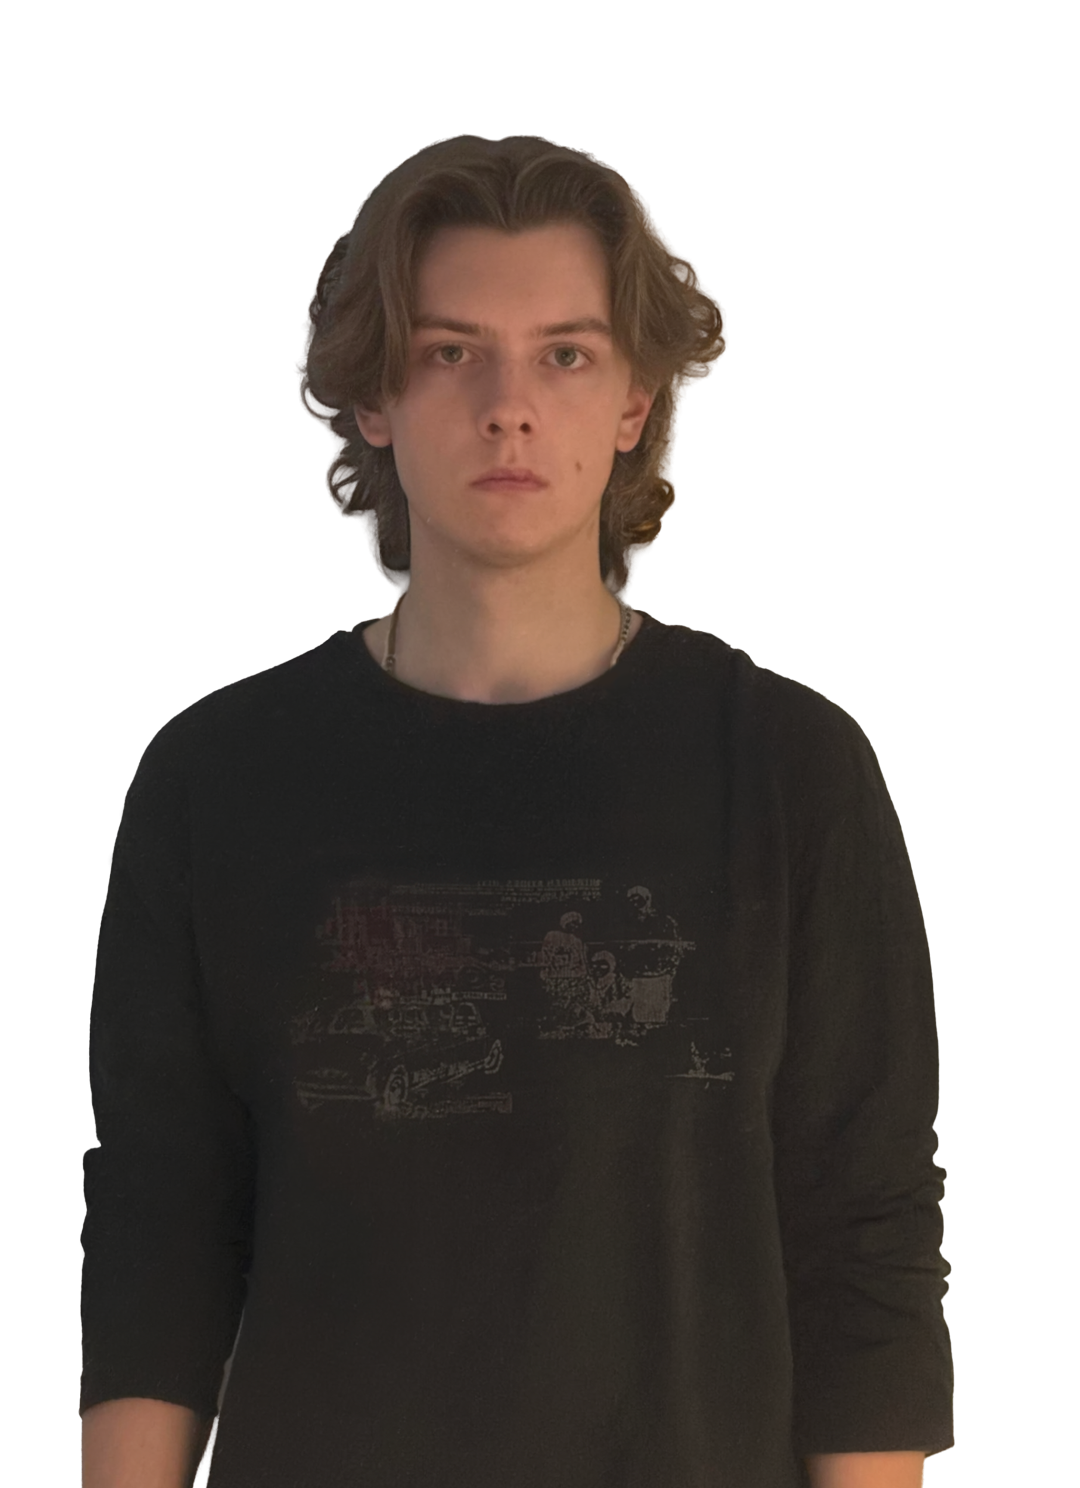
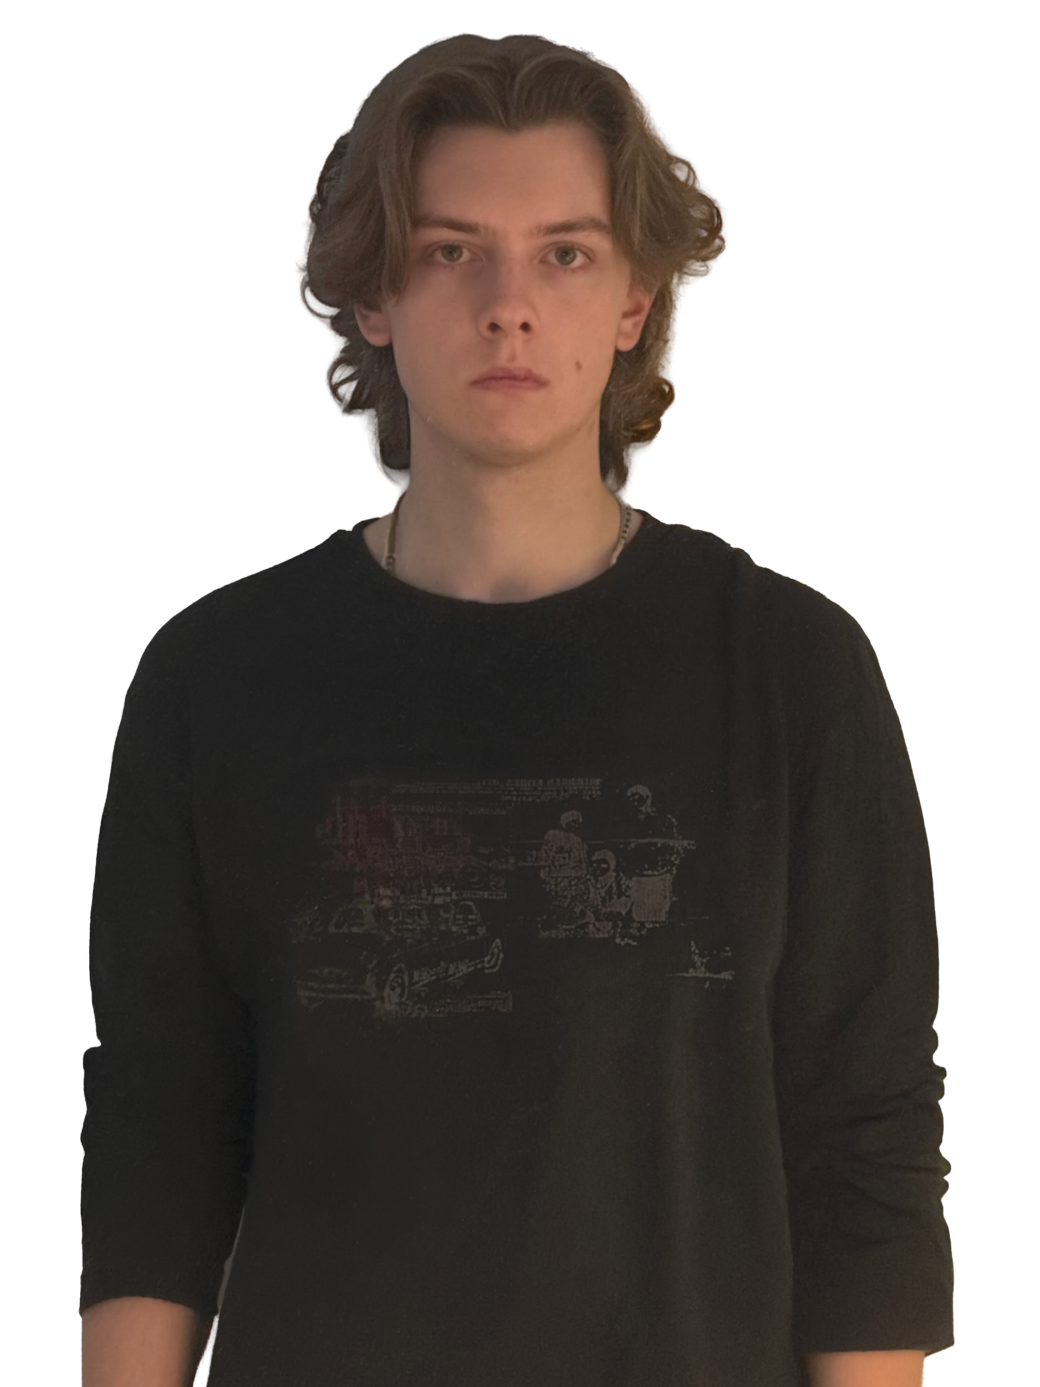
mobile support finalized

diff --git a/css/style.css b/css/style.css
@@ -908,7 +908,39 @@ html::-webkit-scrollbar-thumb:active{
   -webkit-mask:radial-gradient(circle at 100% 0,transparent calc(var(--tab-h) - .5px),#000 var(--tab-h));
           mask:radial-gradient(circle at 100% 0,transparent calc(var(--tab-h) - .5px),#000 var(--tab-h));
 }
-@media (max-width:47.5rem) and (max-height:55.875rem){
+@media (max-width:47.5rem){
+  .grid{
+    --slide:1.5rem;
+    row-gap:calc(var(--gap) + var(--slide));
+  }
+  .grid>li .card{translate:none !important}
+
+  .grid>li::after{
+    font-size:clamp(1.05rem,.85rem + 1vw,1.5rem);
+    translate:0 0;
+    opacity:1;
+    place-items:end center;
+    transition:none;
+    padding-bottom:0.3rem;
+  }
+  .grid>li:nth-child(n):not(:last-child) .card{
+    translate:0 calc(var(--slide) * -1);
+  }
+
+  .menu a{font-size:clamp(1.05rem,.75rem + 1.6vw,1.7rem)}
+  html.scrolled:not(.at-bottom) .logo,
+  html.scrolled:not(.at-bottom) .actions{scale:1}
+  .bolts{
+    --bs:2.8;                        /* scale factor */
+    transform-origin:100% 0;         /* grow from the top-right corner so the right bolt stays on screen */
+    scale:var(--bs);
+  }
+  .bolts path:nth-child(1){display:none}   /* hide the left bolt, keep the right one */
+  .bolts path{stroke-width:3.5}              /* your thickness knob: see the note below */
+  body{overflow-x:clip}
+
+  .contact-list li:has(.ico-location){display:none}
+  .disclaimer{margin-top:1rem}
   .grid{
     --cols:1;
     margin-bottom:0;                 /* the negative margin only existed to close the stagger gap */
@@ -923,6 +955,14 @@ html::-webkit-scrollbar-thumb:active{
     grid-column:auto;                /* card 7 was pinned to column 2 */
   }
 
+  .links--r .contact-list{
+    display:flex;
+    flex-direction:row;
+    flex-wrap:wrap;                  /* drops to a second line only if it runs out of room */
+    justify-content:center;
+    gap:1rem clamp(1.25rem,6vw,2.5rem);   /* row gap, column gap */
+  }
+
   /* hover (mouse only): the old rules were written for a 3-column grid */
   @media (hover:hover){
     .grid>li:nth-child(n):has(~ li:nth-child(n):hover) .card{translate:none}
@@ -932,4 +972,25 @@ html::-webkit-scrollbar-thumb:active{
       translate:0 calc(var(--slide) * -1);
     }
   }
+}
+/* tab: flat top, sharp-ish S-curve shoulders (below 64rem, where the tab is visible) */
+.tab{
+  --sh:calc(var(--tab-h) * 1.8);                 /* shoulder width: bigger = gentler slope, smaller = steeper */
+  border-radius:calc(var(--tab-h) * .15) calc(var(--tab-h) * .15) 0 0;   /* was .8 */
+}
+
+.tab::before,
+.tab::after{
+  width:var(--sh);
+  height:100%;
+  -webkit-mask:none;
+          mask:none;
+}
+.tab::before{
+  right:calc(100% - 1px);                         /* 1px overlap so there is no seam */
+  clip-path:polygon(100% 0,90% 2.8%,80% 10.4%,70% 21.6%,60% 35.2%,50% 50%,40% 64.8%,30% 78.4%,20% 89.6%,10% 97.2%,0 100%,100% 100%);
+}
+.tab::after{
+  left:calc(100% - 1px);
+  clip-path:polygon(0 0,10% 2.8%,20% 10.4%,30% 21.6%,40% 35.2%,50% 50%,60% 64.8%,70% 78.4%,80% 89.6%,90% 97.2%,100% 100%,0 100%);
 }
